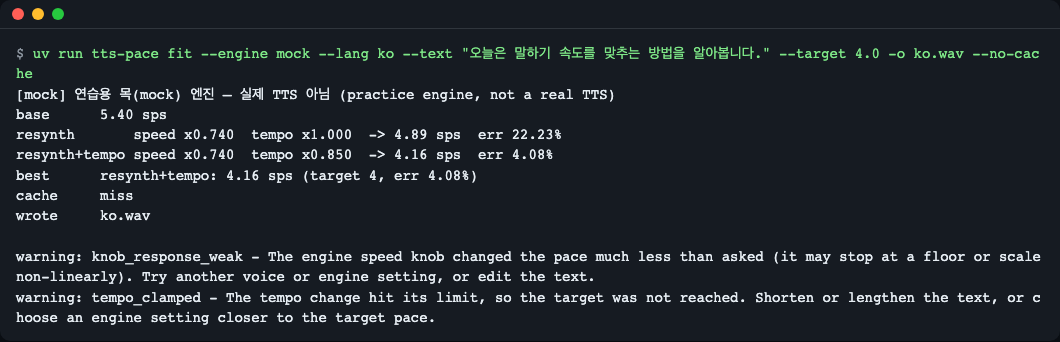
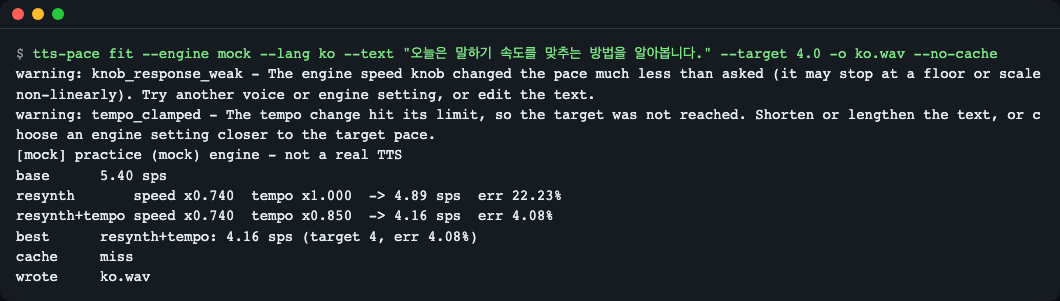
docs(readme): document display language and add Korean screenshots

Changed region(s): [[0.0, 0.0299, 1.0, 0.9568]]

diff --git a/README.md b/README.md
@@ -90,7 +90,7 @@ uv run tts-pace demo
 ```
 
 ```text
-[mock] 연습용 목(mock) 엔진 — 실제 TTS 아님 (practice engine, not a real TTS)
+[mock] practice (mock) engine - not a real TTS
 case      base sps  route          final sps target     err  warnings
 ---------------------------------------------------------------------
 en far        4.61  resynth+tempo       4.00    4.0   0.09%  -
@@ -100,8 +100,6 @@ ko floor      5.40  resynth+tempo       4.16    4.0   3.95%  knob_response_weak,
 
 wrote tts-pace-demo/ (WAV files + report.json: tts-pace-demo/report.json)
 ```
-
-(The first line's Korean part means "practice mock engine, not a real TTS".)
 
 What it means: `base sps` is the speed of the first synthesis, `route` is the method used to fit, and `err` is the difference from the target. `en far` had a distant target so it used the knob as well, while `en near` and `ko near` were close and used the tempo only. `ko floor` is a case where this fake Korean engine is built so that it cannot get slower than its speed floor, so 3.95% error remains and warnings are attached. The generated WAV files and `report.json` are saved in `tts-pace-demo/`.
 
@@ -152,7 +150,7 @@ uv run tts-pace fit --engine mock --lang ko \
 ```text
 warning: knob_response_weak - The engine speed knob changed the pace much less than asked (it may stop at a floor or scale non-linearly). Try another voice or engine setting, or edit the text.
 warning: tempo_clamped - The tempo change hit its limit, so the target was not reached. Shorten or lengthen the text, or choose an engine setting closer to the target pace.
-[mock] 연습용 목(mock) 엔진 — 실제 TTS 아님 (practice engine, not a real TTS)
+[mock] practice (mock) engine - not a real TTS
 base      5.40 sps
 resynth       speed x0.740  tempo x1.000  -> 4.89 sps  err 22.23%
 resynth+tempo speed x0.740  tempo x0.850  -> 4.16 sps  err 4.08%
@@ -178,7 +176,7 @@ uv run tts-pace fit --engine mock --text "Today we learn how to match the rate."
 
 ```text
 warning: tempo_clamped - The tempo change hit its limit, so the target was not reached. Shorten or lengthen the text, or choose an engine setting closer to the target pace.
-[mock] 연습용 목(mock) 엔진 — 실제 TTS 아님 (practice engine, not a real TTS)
+[mock] practice (mock) engine - not a real TTS
 base      4.60 sps
 resynth       speed x0.714  tempo x1.000  -> 3.77 sps  err 14.60%
 resynth+tempo speed x0.714  tempo x0.850  -> 3.22 sps  err 2.15%
@@ -232,6 +230,54 @@ wrote     slower.wav
 
 This is the command to use when you have only a file and no engine. If the target is too far (for example `--target 2.0`), it stops at the 0.85x floor and raises a `tempo_clamped` warning. The exit code is still 0 in that case, so in automation check for warnings in the `warnings` field of the `--json` output (both `retime --json` and `fit --json`) or in the report.
 
+### 6. Choosing the screen language (since 0.4.0)
+
+The text meant for people (help, result labels, the demo table, warnings, errors) comes in English or Korean. `--json` output and `report.json` do not change with the language, so scripts should read those instead of the human-readable text.
+
+The language is chosen in this order; the first one that is set wins:
+
+1. `--lang en|ko` placed **before** the command: `tts-pace --lang ko count ...`
+2. The `TTS_PACE_LANG` environment variable (`en` or `ko`)
+3. `LC_ALL`, then `LC_MESSAGES`, then `LANG`: a value starting with `ko` (such as `ko_KR.UTF-8`) means Korean
+4. Otherwise English
+
+```bash
+uv run tts-pace --lang ko count "hello"
+TTS_PACE_LANG=ko uv run tts-pace count "hello"
+uv run tts-pace --lang en count "hello"
+```
+
+```text
+발음 형태   : hello
+음절 수     : 2  {'ko': 0, 'en': 2, 'ja': 0}
+```
+
+The first two commands print the Korean text above; the third prints the English one (`spoken form` / `syllables`). The Korean README shows the demo table with Korean headers (Korean characters are two columns wide, and the columns still line up).
+
+
+**Do not confuse it with the `--lang` placed after a command.** `count --lang auto|ko|en|ja` is the language of the *text being counted*, and `fit --lang ko|en` picks the mock engine's preset. Both keep their old meaning and can be combined with the screen language:
+
+```bash
+uv run tts-pace --lang ko count --lang en "hello"
+```
+
+```text
+발음 형태   : hello
+음절 수     : 2  {'ko': 0, 'en': 2, 'ja': 0}
+```
+
+An error in Korean, with exit code 2 as before:
+
+```bash
+uv run tts-pace --lang ko fit --engine mock --text hi -o x.wav
+```
+
+```text
+tts-pace fit: 오류: 다음 인자 중 하나가 필요합니다: --target --target-duration
+```
+
+(Only the last line is shown; the usage lines come before it. It means "one of these arguments is required: --target --target-duration".)
+
 ## API
 
 These are the public names exported by `tts_pace`. Do not use module-internal functions that are not listed here.
@@ -254,7 +300,7 @@ These are the public names exported by `tts_pace`. Do not use module-internal fu
 
 Warnings returned by `fit()`: `knob_response_weak` (the knob does not respond as expected), `knob_clamped` (the requested speed was outside the engine's range and was cut), `tempo_clamped` (the tempo limit was hit), `unsupported_chars` (there were characters that could not be counted).
 
-Command line: `tts-pace {demo,count,measure,retime,fit}`. See each command's options with `uv run tts-pace <command> --help`.
+Command line: `tts-pace [--lang en|ko] {demo,count,measure,retime,fit}`. See each command's options with `uv run tts-pace <command> --help`; the screen language is described in [step 6](#6-choosing-the-screen-language-since-040).
 
 ## Usage examples
 
@@ -344,7 +390,7 @@ Results of fitting with real engines (error against the target): English Piper a
 - English syllables are a rule-based estimate (89.6% word-level agreement on a sample of 1,994 CMUdict words). Korean is counted by character block and Japanese by mora.
 - The tempo change is limited to 0.85-1.15x. Differences beyond that must be solved with the knob or the sentence length.
 - The length for `--target-duration` is the total length including pauses, and it is hit exactly only when the required tempo is within 0.85-1.15x. Otherwise it stops nearby with a warning.
-- Known limitations (as of 0.3.0): giving `--target-duration` a value of 0 or less prints the mock-engine notice line after the `error:` line (the exit code is still the correct 2). Some of the length-mode tests have weak value-unit checks and will be strengthened later. The `--json` tests do not yet cover the combinations of `--lang`, and `--target-duration` with `--cache-dir`. When `--json` hits an error (in mock mode), the first line of standard error is the `[mock]` notice and the `error:` line comes after it (standard output is empty and the exit code is 2).
+- Known limitations: giving `--target-duration` a value of 0 or less prints the mock-engine notice line after the `error:` line (the exit code is still the correct 2). Some of the length-mode tests have weak value-unit checks and will be strengthened later. The `--json` tests cover the screen language (the JSON is identical in both languages), but not the combination of `--target-duration` with `--cache-dir`. When `--json` hits an error (in mock mode), the first line of standard error is the `[mock]` notice and the `error:` line comes after it (standard output is empty and the exit code is 2).
 - The mock engine is for practicing the measurement and correction logic and does not represent the quality or speed characteristics of real speech.
 
 ## Versions and compatibility
@@ -361,12 +407,13 @@ Results of fitting with real engines (error against the target): English Piper a
 | `No countable syllables found` error | There are only symbols or only unsupported characters, so nothing can be counted | Tell it how the text is read with `normalize={"2026": "twenty twenty six"}` |
 | `SayEngine only works on macOS` | `say` is macOS only | Use `CallableEngine` or `PiperEngine` |
 | `PiperEngine needs a voice .onnx file` | No voice file was specified | Set `voice=...` or `TTS_PACE_PIPER_VOICE` |
+| `--text-file ... is not valid UTF-8 text` error (exit code 2) | The text file is saved in another encoding | Re-save the file as UTF-8 and run again |
 
 ## Development and contributing
 
 ```bash
 uv sync
-uv run pytest -q   # 99 passed, 2 deselected (tests that need a real engine are excluded by default)
+uv run pytest -q   # 147 passed, 2 deselected (tests that need a real engine are excluded by default)
 ```
 
 ## Learn more
